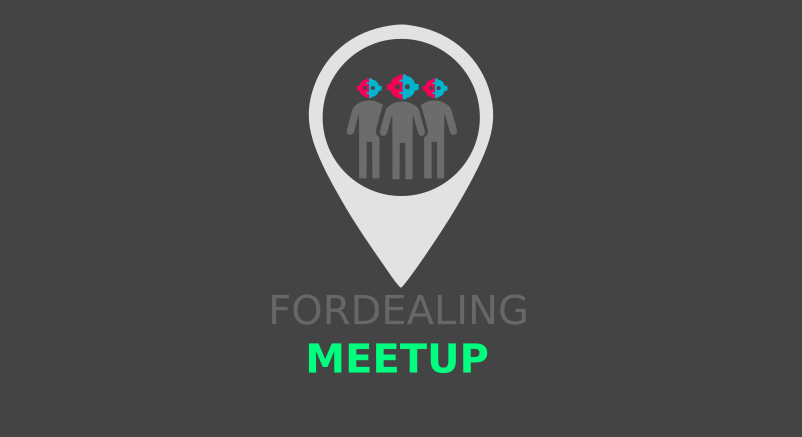
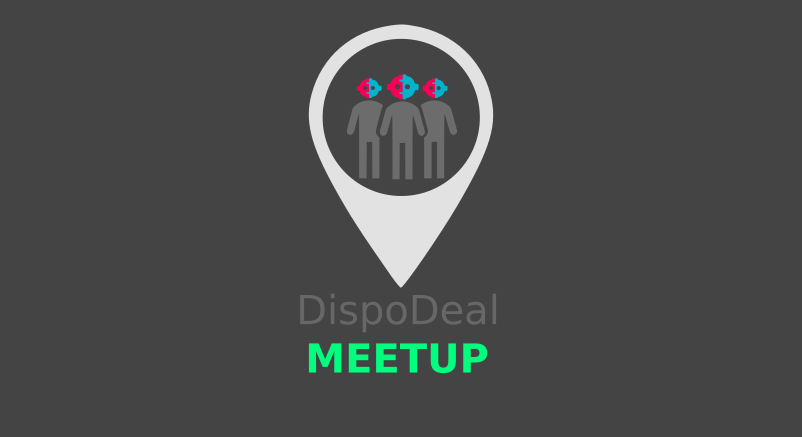
all ok

Changed region(s): [[0.3117, 0.6545, 0.6546, 0.7437]]

diff --git a/assets/js/Messages/webSocketServer.js b/assets/js/Messages/webSocketServer.js
@@ -871,7 +871,6 @@ function wsConnect(id) {
                     }
 
                 }).fail(function(jxh,textmsg,errorThrown){
-                    alert('filer');
                 });
             }
             function sendMessageToUser(data){
@@ -893,7 +892,7 @@ function wsConnect(id) {
                         addMessageToCurrentUser(response[0],response[1]);
 
                     }).fail(function(jxh,textmsg,errorThrown){
-                        alert('filer');
+
                     });
                 }
 

diff --git a/public/assets/documents/gcu_en.html b/public/assets/documents/gcu_en.html
@@ -17,7 +17,7 @@
                             <a href="https://www.fordealing.fr" target="_blank">
                                 <img src="../images/logo/face.png" alt="aaa" class="pt-2">
                                 <br>
-                                <span class="blued">FOR<span class="rosed">DEAL</span>ING</span>
+                                <span class="blued"><span class="rosed">Dispo</span>Deal</span>
                             </a>
                         </div>
                     </div>

diff --git a/src/Controller/User/AdminController.php b/src/Controller/User/AdminController.php
@@ -174,12 +174,12 @@ class AdminController extends AbstractController
             $entityManager->persist($user);
             $entityManager->flush();
 
-            $subject = $translator->trans('Your FORDEALING Account has been created');
+            $subject = $translator->trans('Your DispoDeal Account has been created');
             $message = (new \Swift_Message())
                 ->setContentType('text/html')
                 ->setSubject($subject)
                 /*change to prod email*/
-                ->setFrom('info@fordealing.fr')
+                ->setFrom('info@dispodeal.fr')
                 /*send to $email*/
                 ->setTo('ziadoof@gmail.com');
             $img = $message->embed(\Swift_Image::fromPath('assets/images/logo/face.png'));

diff --git a/src/Controller/User/UserController.php b/src/Controller/User/UserController.php
@@ -235,12 +235,12 @@ class UserController extends AbstractController
 
         $user->setDeleted(true);
         $user->setUsername((string) $user->getId());
-        $newEmail = (string) $user->getId().'@fordealing.fr';
+        $newEmail = (string) $user->getId().'@dispodeal.fr';
         $user->setEmail($newEmail);
         $user->setEmailStatus(false);
         $user->setEmailCanonical($newEmail);
         $user->setEnabled(false);
-        $user->setFirstname('FORDEALING User');
+        $user->setFirstname('DispoDeal User');
         $user->setLastname('Deleted');
         $user->setMaxDistance(1);
         $user->setPoint(0);
